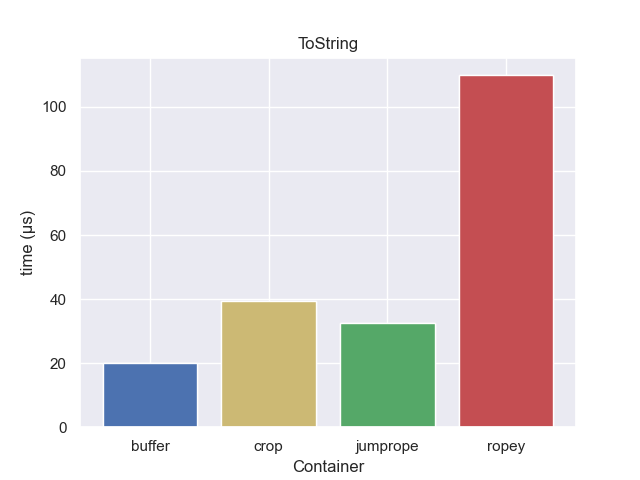
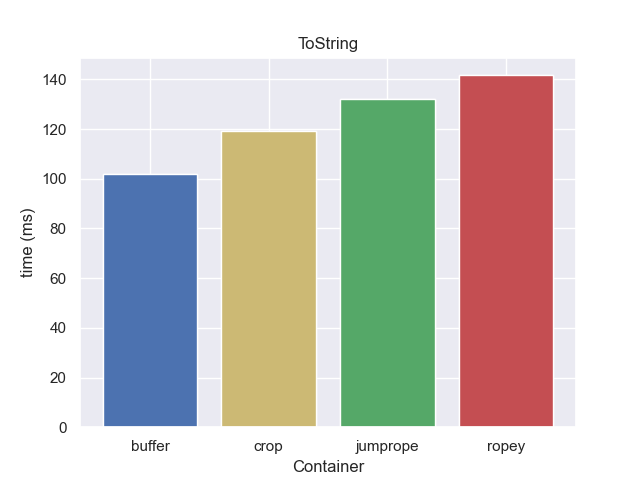
Increase save benchmark to 1GB

diff --git a/code/make_graphs.py b/code/make_graphs.py
@@ -127,16 +127,16 @@ def report_from_str():
 
 def report_save():
     data = {
-        'buffer': 20,
-        'crop': 39.3,
-        'jumprope': 32.4,
-        'ropey': 109.9,
+        'buffer': 101.79,
+        'crop': 119.32,
+        'jumprope': 131.96,
+        'ropey': 141.69,
     }
     # make a bar graph of the data
     plt.bar(data.keys(), data.values())
     plt.bar(data.keys(), data.values(), color=['b', 'y', 'g', 'r'])
     plt.xlabel('Container')
-    plt.ylabel('time (μs)')
+    plt.ylabel('time (ms)')
     plt.title('ToString')
     plt.savefig('../static/images/save.png')
     if SHOW_PLOT:
@@ -419,13 +419,13 @@ def report_search_full():
 
 
 
-report_overhead()
-report_edit_overhead()
+# report_overhead()
+# report_edit_overhead()
 # report_move_gap()
 # report_resize()
 # report_from_string()
 # report_from_str()
-# report_save()
+report_save()
 # report_realworld()
 # report_smart_diff()
 # report_cursor_count()

diff --git a/content/post/text-showdown-gap-buffers-vs-ropes.md b/content/post/text-showdown-gap-buffers-vs-ropes.md
@@ -1,5 +1,5 @@
 +++
-title = "text showdown: gap buffers vs ropes"
+title = "Text showdown: Gap Buffers vs Ropes"
 author = ["Troy Hinckley"]
 date = 2023-08-09
 tags = ["rust", "emacs", "data-structures"]
@@ -12,24 +12,24 @@ GNU Emacs has famously used a gap buffer to represent editable text. It's even m
 
 I see it as analogous to the more general data structure, the "array". A gap buffer is just an array that is optimized for inserting at a "cursor" instead of at the end. Using a gap buffer has served Emacs well over many decades.
 
-Despite this, Emacs seems largely alone in its choice in the modern world. Most popular editors today use some variation of either a [piece table](https://code.visualstudio.com/blogs/2018/03/23/text-buffer-reimplementation) or a [rope](https://blog.jetbrains.com/fleet/2022/02/fleet-below-deck-part-ii-breaking-down-the-editor/). Rather than storing data as a large contiguous array, these data structures chop the buffer into small chunks and operate on those. This enables them to avoid the O(N) penalty of moving the cursor when doing edits far away and the latency of resizing the buffer.
+Despite this, Emacs seems largely alone in its choice in the modern world. Most popular editors today use some variation of either a [piece table](https://code.visualstudio.com/blogs/2018/03/23/text-buffer-reimplementation) or a [rope](https://blog.jetbrains.com/fleet/2022/02/fleet-below-deck-part-ii-breaking-down-the-editor/). Rather than storing data as a large contiguous array, these data structures chop the buffer into small chunks and operate on those. This enables them to avoid the O(n) penalty of moving the cursor when doing edits far away and the latency of resizing the buffer.
 
 Rust has [many rope crates](https://crates.io/search?q=ropey) that have had a lot of optimization work put in. The obvious thing to do was to just pick one and move on. But I wanted to see for myself how the gap buffer holds up to these more "advanced" data structures. Modern computers can operate very quickly over linear memory. So I built a gap buffer and stacked it up against the competition.
 
 
-## design {#design}
+## Design {#design}
 
 My gap buffer ([link](https://github.com/CeleritasCelery/rune/tree/master/crates/text-buffer)) is fairly true to the original design, with one big change; I store [metrics](https://github.com/CeleritasCelery/rune/blob/master/crates/text-buffer/src/metric.rs) about the buffer in a separate tree. These metrics include things like char and line position, but could, in theory, include anything you want (like UTF-16 [code units](https://docs.rs/ropey/latest/ropey/struct.Rope.html#method.char_to_utf16_cu)). This means that _finding_ an arbitrary position in the buffer becomes at worse O(logn), but we still have to pay the cost of moving the gap.
 
 The ropes that I will be comparing against are [Ropey](https://docs.rs/ropey/latest/ropey/index.html), [Crop](https://docs.rs/crop/0.3.0/crop/index.html), and [Jumprope](https://docs.rs/jumprope/latest/jumprope/index.html). The last one is technically implemented via [skip lists](https://en.wikipedia.org/wiki/Skip_list), but that's an implementation detail and the performance should be similar.
 
 
-## gap buffer costs {#gap-buffer-costs}
+## Gap buffer costs {#gap-buffer-costs}
 
 Before we jump into [benchmarks](https://github.com/CeleritasCelery/rope-benches) comparing ropes and gap buffers. Let's look at the time it takes to complete the two highest latency operations on gap buffers: resizing and moving the gap. This is a cost that ropes don't share because their worst case for an editing operation is O(logn).
 
 
-### resize {#resize}
+### Resize {#resize}
 
 Insertion in a gap buffer is O(1), just like an appending to a vector. But also like vectors, they only achieve this in the amortized case. Vectors need to resize once they get full, and this is a O(N) operation. But since the time between resizing is N appends, it averages out to O(1). Gap buffers are similar, except that we don't usually continue to grow the gap as the text gets larger (that would lead to more overhead). In this sense, it isn't truly O(1) insertion time, but even if it was, we generally care about the latency in interactive applications more than we care about the average case.
 
@@ -38,7 +38,7 @@ Insertion in a gap buffer is O(1), just like an appending to a vector. But also 
 Note that both axes are logarithmic. We can see that the cost to resize grows linearly with the size of the buffer, which is what we would expect. With a 1GB[^fn:1] file, it takes a little over 100ms to resize, which is starting to be perceptible.
 
 
-### moving the gap {#moving-the-gap}
+### Moving the gap {#moving-the-gap}
 
 How long does it take to slide the gap a given distance? This delay is added anytime we edit a different part of the buffer than we are currently in. The farther the move, the longer it takes. Unlike resizing which (from a user's perspective) strikes randomly, this latency is easier to predict. You generally know when you are editing something farther than where you are currently at.
 
@@ -49,7 +49,7 @@ Moving the gap 1GB is significantly faster than resizing 1GB, taking only 22ms. 
 In practice, these latencies will be less of an issue, because giant files tend to be log files and auto-generated output, which are rarely edited. However, it is still an unavoidable cost of storing data in a contiguous fixed-sized structure.
 
 
-## memory overhead {#memory-overhead}
+## Memory overhead {#memory-overhead}
 
 For our comparisons, let's start with memory overhead. The way to read this is if something has 50% overhead, that means you need 1.5GB of memory to open a 1GB file.
 
@@ -58,7 +58,7 @@ For our comparisons, let's start with memory overhead. The way to read this is i
 Woah! Jumprope is way outside the norm here, almost doubling the memory needed to open a file[^fn:2]. Crop and Ropey are much closer to what you would expect. However, this is the ideal case of opening a new file. Each rope node will be perfectly filled and the tree properly balanced.
 
 
-### edit overhead {#edit-overhead}
+### Edit overhead {#edit-overhead}
 
 Let's look at the overhead when edits are applied to the text. These could be things like large search and replace or multiple cursors. This tends to leave the ropes in a less ideal state, and hence have higher overhead.
 
@@ -67,7 +67,7 @@ Let's look at the overhead when edits are applied to the text. These could be th
 Fairly significant change for all ropes. Jumprope has gone through the roof, jumping so high that I didn't even bother expanding the plot to show it. Even crop, which had the lowest rope overhead in ideal conditions, has jumped almost 20x. The gap buffer on the other hand has barely moved. Unlike ropes, a gap buffer is always in ideal state with regards to layout. This unique property will show up later in the searching benchmarks.
 
 
-## real world {#real-world}
+## Real world {#real-world}
 
 To compare editing performance we have a set of 5 [real world](https://github.com/josephg/editing-traces) benchmarks from the author of Jumprope. These are recordings or "traces" of actual people editing some text in an editor. Each benchmark starts empty, then replays thousands of edits and arrives at the end text.
 
@@ -78,12 +78,12 @@ To compare editing performance we have a set of 5 [real world](https://github.co
 Aside from Ropey, all the containers have comparable performance. In all benchmarks but one, the gap buffer is the fastest, but not by any meaningful amount. This demonstrates that in the average case, insert and delete performance is fairly comparable between the different data structures. Let's zoom in on some specialized use cases.
 
 
-## creating {#creating}
+## Creating {#creating}
 
 So we have a sense of the memory overhead and average performance for the different containers. Here we will compare the time to load and save the text from the data structures.
 
 
-### creating from a String {#creating-from-a-string}
+### Creating from a String {#creating-from-a-string}
 
 How long does it take to create a new data structure from a `String`? The string below is 1GB in size.
 
@@ -96,20 +96,20 @@ The gap buffer is significantly faster than the rest, but it's not really a fair
 Forcing a copy makes the gap buffer take about three times as long, but it is still faster than the rope implementations.
 
 
-### saving {#saving}
+### Saving {#saving}
 
-What about saving a file? Here we are not going to benchmark the actual file system overhead, but instead use "writing the contents to a string" as a proxy.
+What about saving a file? Here we are not going to benchmark the actual file system overhead, but instead use "writing the contents of 1GB to a string" as a proxy.
 
 {{< figure src="/images/save.png" >}}
 
 All containers are pretty comparable on this front.
 
 
-## multiple cursors {#multiple-cursors}
+## Multiple cursors {#multiple-cursors}
 
 Back in 2017, Chris Wellons wrote a [blog post](https://nullprogram.com/blog/2017/09/07/) titled "Gap Buffers Are Not Optimized for Multiple Cursors". It makes the case that since gap buffers have to move the gap buffer back to the first cursor for each edit (a O(n) operation), they don't scale well with multiple cursors. So instead of using multiple cursors, you should use some other editing operation like macros. [This](https://github.com/hauleth/sad.vim#why-not-multiple-cursors) idea [has](https://cdacamar.github.io/data%20structures/algorithms/benchmarking/text%20editors/c++/editor-data-structures/) now [become](https://github.com/emacs-ng/emacs-ng/issues/378#issuecomment-907577662) part [of](https://vms.wwwtech.de/notes/360) Internet [lore](https://vuink.com/post/ahyycebtenz-d-dpbz/blog/2017/09/07).
 
-I was not convinced by this argument. For one thing, there are no benchmarks, and many things that make sense intuitively don't play out that way in the real world. Also I realized you can avoid the overhead of moving the gap back to the first cursor with this one weird trick (computer scientists hate him!): Every time you do an edit, you reverse the direction you iterate through the cursors. If in one edit you go from the first cursor to the last, then in the next edit you go from the last cursor to the first. This saves the overhead of moving the gap back to the first cursor each time. Essentially you just sweep the gap back and forth as you make edits. Let's benchmark this and see how well it works.
+I was not convinced by this argument. For one thing, there are no benchmarks, and many things that make sense intuitively don't play out that way in the real world. Also, I realized you can avoid the overhead of moving the gap back to the first cursor with this one weird trick (computer scientists hate him!): Every time you do an edit, you reverse the direction you iterate through the cursors. If in one edit you go from the first cursor to the last, then in the next edit you go from the last cursor to the first. This saves the overhead of moving the gap back to the first cursor each time. Essentially you just sweep the gap back and forth as you make edits. Let's benchmark this and see how well it works.
 
 {{< figure src="/images/smart_diff.png" >}}
 
@@ -120,7 +120,7 @@ It looks like this trick works. Let's zoom in on the percent overhead of the nai
 Once the distance gets large enough we have about 20-30% overhead. This shows that even in the naive case, most of the time is dominated by performing the actual edits, not moving the cursor back. Also, The overhead doesn't grow linearly with the distance between the cursors.
 
 
-### compared to ropes {#compared-to-ropes}
+### Compared to ropes {#compared-to-ropes}
 
 How does this compare to the rope implementations? We will start with cursors 100 bytes apart and increase the total cursor count.
 
@@ -137,7 +137,7 @@ Now the weakness of gap buffers starts to show. The distance between cursors doe
 However, there is nothing special about multiple cursors with this relationship. Gap buffers struggle with long-distance edits no matter what mechanism is used. It would be the same with macros, search and replace, etc. Given that, I would claim that gap buffers are optimized for multiple cursors just fine, it is non-local edits that are the source of the issue.
 
 
-## searching {#searching}
+## Searching {#searching}
 
 People don't only edit text, they also analyze it. One of the most common ways to do this is via searching. Rust has a highly optimized regex crate, but it only operates on slices. This is [problematic](https://github.com/xi-editor/xi-editor/issues/1192) for [ropes](https://github.com/helix-editor/helix/pull/211) since they store the buffer in many small allocations. Currently, the best way to do a regex search over a rope is to copy all the chunks out into a separate allocation and perform your search over that[^fn:3]. There is some work to create a [streaming API version](https://github.com/rust-lang/regex/issues/425) of regex based on `regex-automata`, but it still has not been developed and may never prove to be as fast as slice searching.
 
@@ -156,7 +156,7 @@ It adds about 30% overhead to the gap search. This still doesn't put it anywhere
 That being said, many new parser libraries like Tree-sitter are already designed to operate on non-contiguous chunks, so the need for search becomes less important. We will see how this plays out in the future.
 
 
-## what should you use? {#what-should-you-use}
+## What should you use? {#what-should-you-use}
 
 So is this to say that everyone should switch over and start using gap buffers? Not quite. Ropes are really powerful data structures, and they never have the latency spikes associated with resizing or moving the gap. In real-world editing scenario's it isn't the best case or even the average case, it's the worst-case tail latency that really matters. With ropes, you get worse case O(logn) behavior for all editing operations. As files get larger the extra latency associated with gap buffers starts to show itself. On the flip side, in my experience the larger a file is the less likely I am to be editing it, but the more likely I am to be searching it. These trade-offs work well in favor of gap buffers.
 
@@ -165,7 +165,7 @@ Ropes have other benefits besides good performance. Both Crop and Ropey support 
 Despite all that, gap buffers showed they can do quite well when placed against more "advanced" data structures. One of their key advantages is that gap buffers are always in an ideal state. They never need to worry about fragmentation or being unbalanced like trees do. The way I see it, gap buffers are better for searching and memory usage, but ropes are better at non-local editing patterns. Despite their simplicity, gap buffers can hold their own in the modern world. Maybe Emacs was on to something.
 
 
-### have a comment? {#have-a-comment}
+### Have a comment? {#have-a-comment}
 
 Join the discussion or send me an [email](mailto:troy.hinckley@dabrev.com). Benchmarks can be found [here](https://github.com/CeleritasCelery/rope-benches).
 
